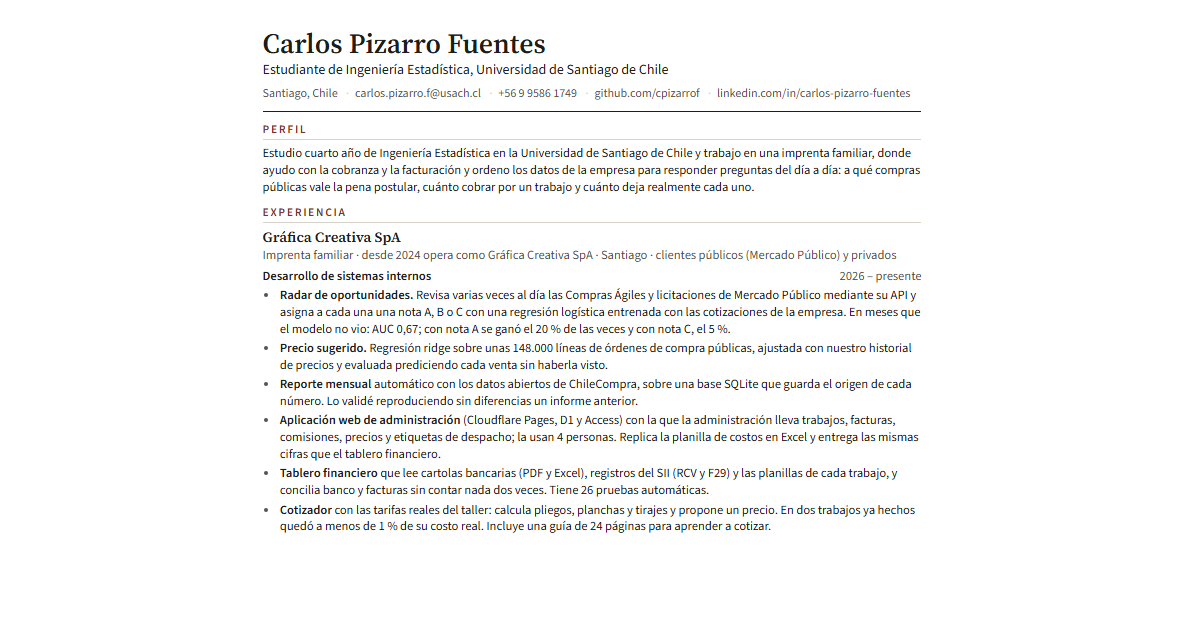
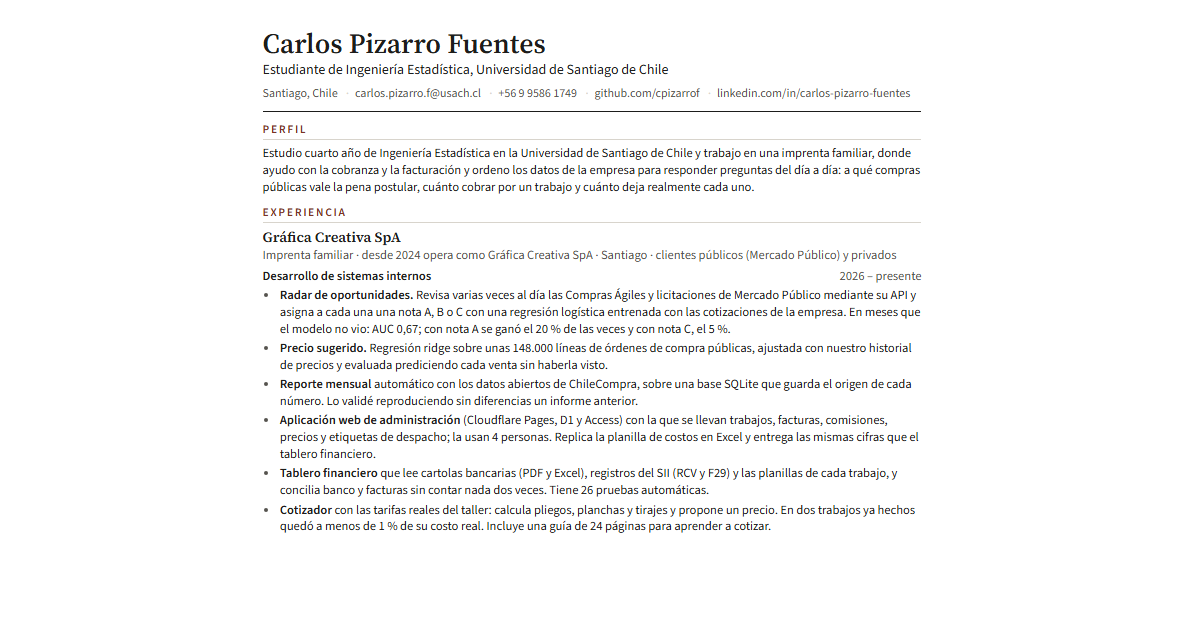
Redacción más simple en la aplicación web

Changed region(s): [[0.2158, 0.6635, 0.7708, 0.7238]]

diff --git a/docs/index.html b/docs/index.html
@@ -105,7 +105,7 @@
         ajustada con nuestro historial de precios y evaluada prediciendo cada venta sin haberla visto.</li>
       <li><b>Reporte mensual</b> automático con los datos abiertos de ChileCompra, sobre una base SQLite que
         guarda el origen de cada número. Lo validé reproduciendo sin diferencias un informe anterior.</li>
-      <li><b>Aplicación web de administración</b> (Cloudflare Pages, D1 y Access) con la que la administración lleva
+      <li><b>Aplicación web de administración</b> (Cloudflare Pages, D1 y Access) con la que se llevan
         trabajos, facturas, comisiones, precios y etiquetas de despacho; la usan 4 personas. Replica la
         planilla de costos en Excel y entrega las mismas cifras que el tablero financiero.</li>
       <li><b>Tablero financiero</b> que lee cartolas bancarias (PDF y Excel), registros del SII (RCV y F29)
